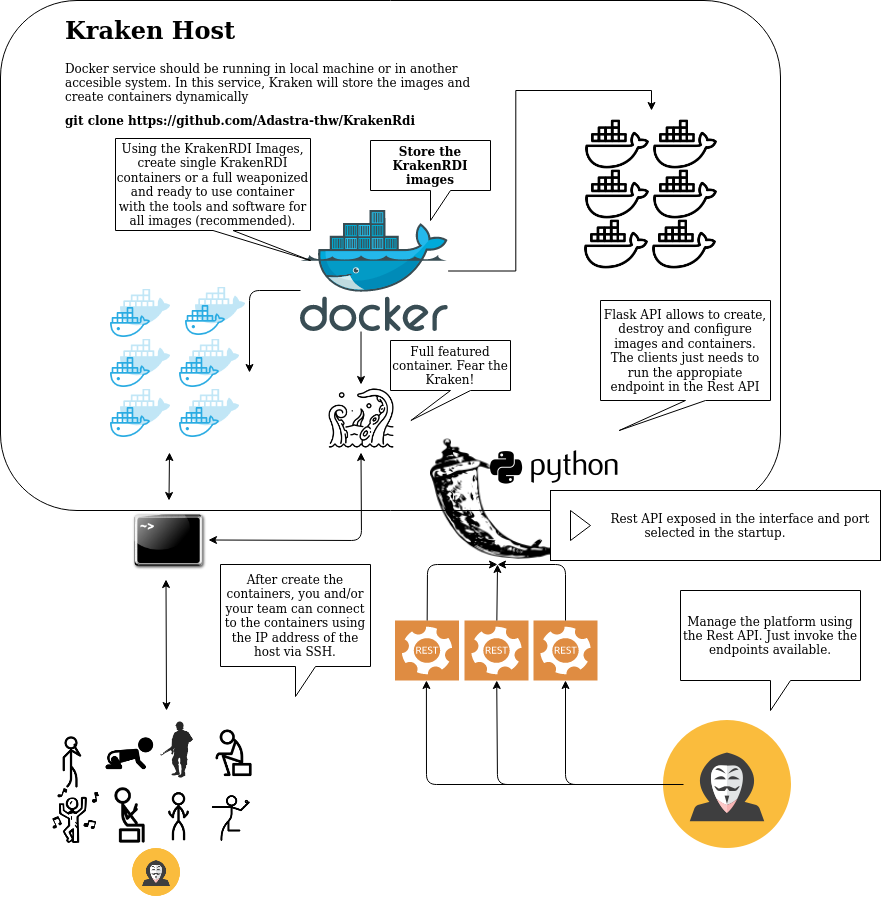
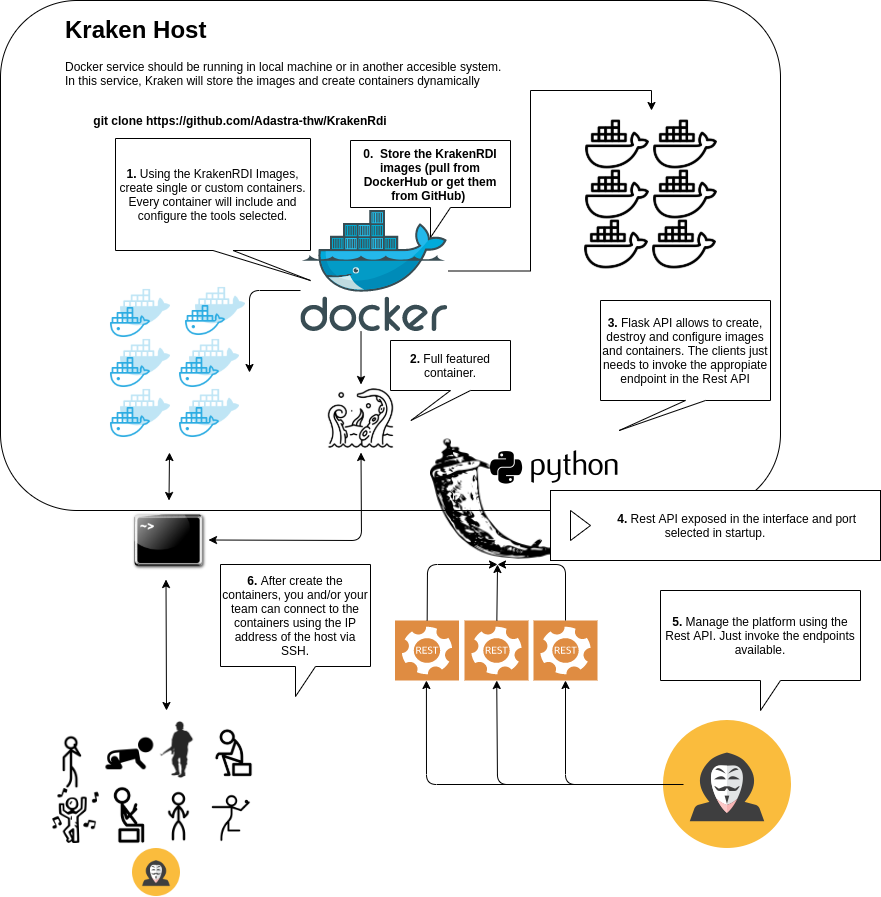
09/12/2020 - Documentation

diff --git a/README.md b/README.md
@@ -1,24 +1,28 @@
 # Kraken: Rapid Deployment Infrastructure for Red Teaming and Penetration Testing (aka: KrakenRDI)
+
 KrakenRDI is a project to easily deploy Docker containers with a full toolbox for RedTeaming and Penetration Testing. Using KrakenRDI you don't need to waste time creating and setting up the environment for you and/or your team. Using KrakenRDI there's more than 100 tools and you can choose which ones should be installed or not in your environment.
 
 # Welcome to Kraken: Rapid Deployment Infrastructure for Red Teaming and Penetration Testing (KrakenRDI)
 
 **KrakenRDI** is a project to helps you with the setup of your environment so you don't need to strunggle with Kali, ParrotOS or similar distributions to get working your environment, stop to waste the valueable resourses of your own system with heavy virtual machines or try to find the reason why your tools in that distributions don't works as expected. Just use containers and work alone or in team.
 
-
-
 ## Features
- - Build and deployment of containers with only the tools that you need or want to use.
- - Useful for penetration testing audits or RedTeaming campaings 
- - Tools always updated with the latests versions from GitHub or any other kind of repositories/sources. Obviously, it depends on the tool you select.
- - WebUI to easily configure your container with the tools of your choice. (TO-DO)
- - Images already prepared in DockerHub, so you can use it directly in your own system if you want.
- - Modular and granual building of containers. You can  create individual containers for a particular stages in a RedTeaming campaing. For example, you can create a container with the tools and some documentation for the reconnaissance, weaponization, later movements, exfiltration, or any other stage. 
- - You can create and destroy containers easily, without leaving traces or wasting the resources of your system like virtual machines.
- - Simple Rest API to control the images building and containers construction.  
 
-## Architecture:
-The base architecture is composed by a full set of images for every stage in a Red Teaming campaign following the standard methodology. Every image or layer, have a lot of tools tested and widely used in this kind of tasks. 
+- Build and deployment of containers with only the tools that you need or want to use.
+- Useful for penetration testing audits or RedTeaming campaings 
+- Tools always updated with the latests versions from GitHub or any other kind of repositories/sources. Obviously, it depends on the tool you select.
+- WebUI to easily configure your container with the tools of your choice. (TO-DO)
+- Images already prepared in DockerHub, so you can use it directly in your own system if you want.
+- Modular and granual building of containers. You can  create individual containers for a particular stages in a RedTeaming campaing. For example, you can create a container with the tools and some documentation for the reconnaissance, weaponization, later movements, exfiltration, or any other stage.
+- You can create and destroy containers easily, without leaving traces or wasting the resources of your system like virtual machines.
+- Simple Rest API to control the images building and containers construction.  
+
+## Architecture
+
+The base architecture is composed by a full set of images for every stage in a Red Teaming campaign following the standard methodology. Every image or layer, have a lot of tools tested and widely used in this kind of tasks.
+
+![Architecture](https://github.com/Adastra-thw/KrakenRdi/blob/master/docs/Architecture.png)
+
 ```mermaid
 graph LR
 A[Base image] -- Used by --> B(Anon Image)
@@ -42,24 +46,26 @@ I(Lateral Movements Image) -- INCLUDES --> I1(Recon-ng, SpiderFoot, TheHarvester
 J(Escalation Image) -- INCLUDES --> J1(Recon-ng, SpiderFoot, TheHarvester, etc.)
 K(Exfiltration Image) -- INCLUDES --> K1(Recon-ng, SpiderFoot, TheHarvester, etc.)
 ```
-## Toolbox:
 
 ## Installation
-On Debian-based systems:
 
-apt update
-apt-get -y install python3 python3-dev redis-server
+On Debian-based systems: 
+`apt update && apt-get -y install python3 python3-dev redis-server
+`
 
-Also, you need to install MongoDB:
-And off course, Docker-CE: 
+Also, you need to install MongoDB Community Edition: https://docs.mongodb.com/manual/installation/  
+And Docker-CE depending on your system: https://docs.docker.com/engine/install/  
 
-## Usage
+# Usage
+
 After install dependencies, you can use the images directly or use the Python application created:
 
-### Docker images:
+## Docker images
+
 You can build any of the Docker images created in KrakenRDI, using this repository and the Dockerfiles located in <KRAKENRDI_ROOT_DIR>/core/docker or the DockerHub images.
 
-#### Building Docker images.
+### Building Docker images
+
 If you want to build an image downloaded from this repository:
 
 Build the image only with tools for anonimity.
@@ -75,25 +81,24 @@ Build the image with specified tools (all of them updated): NMAP, SpiderFoot, Ma
 cd  <KRAKENRDI_ROOT_DIR>/core/docker 
 docker build -f Dockerfile-base -t adastraa/krakenrdi:base --build-arg RECON_NMAP=True --build-arg RECON_SPIDERFOOT=True --build-arg WEAPON_MALICIOUSMACROGENERATOR=True --build-arg WEAPON_DEMIGUISE=True .
 
-NOTE: Dockerfile-base could be useful to create a image with the specified tools. However, if yo don't specify that tools it just create a Debian image as base without any tool.
-To see the full list of tools and the arg name, follow this link: <PUT LINK>
+> **NOTE:**  The file **Dockerfile-base** could be useful to create a image with the specified tools. However, if you don't specify that tools it just create a Debian image as base **without any tool.**
+To see the full list of tools and the arg name, follow this link: <LINK>
 
+# Create containers in KrakenRDI
 
+## Toolbox
 
-## Create containers in KrakenRDI.
+# Contact
 
-
-## Contact
 If you find any problem let try to discover the root cause and open an issue. For any other matter you can contact contact with me at adastra@thehackerway.com
 
 # Markdown extensions
 
 StackEdit extends the standard Markdown syntax by adding extra **Markdown extensions**, providing you with some nice features.
 
-> **ProTip:** You can disable any **Markdown extension** in the **File properties** dialog.
 
 
-## SmartyPants
+# SmartyPants
 
 SmartyPants converts ASCII punctuation characters into "smart" typographic punctuation HTML entities. For example:
 
@@ -131,14 +136,4 @@ Note right of John: Bob thinks a long<br/>long time, so long<br/>that the text d
 
 Bob-->Alice: Checking with John...
 Alice->John: Yes... John, how are you?
-```
-
-And this will produce a flow chart:
-
-```mermaid
-graph LR
-A[Square Rect] -- Link text --> B((Circle))
-A --> C(Round Rect)
-B --> D{Rhombus}
-C --> D
 ```
